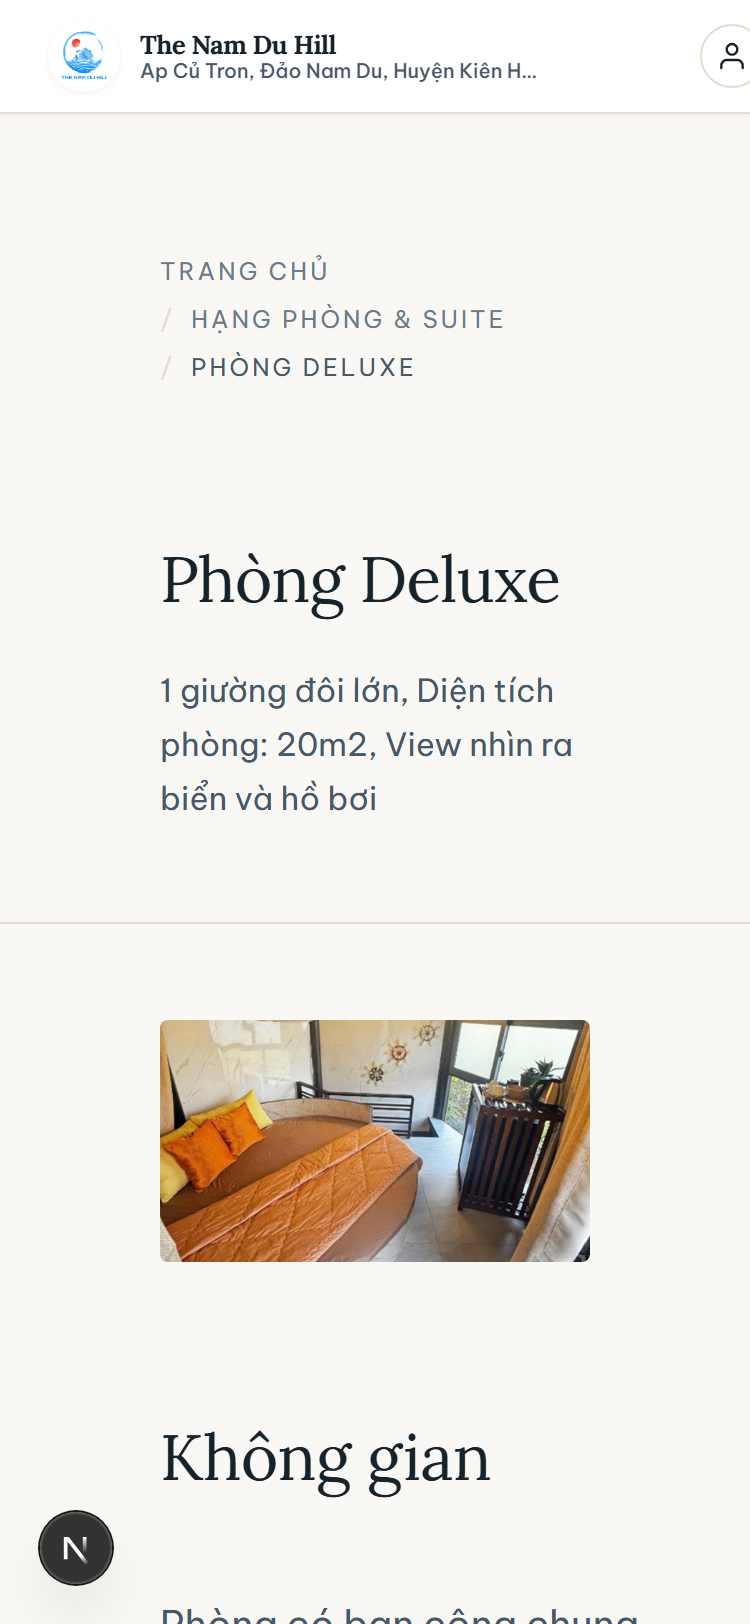
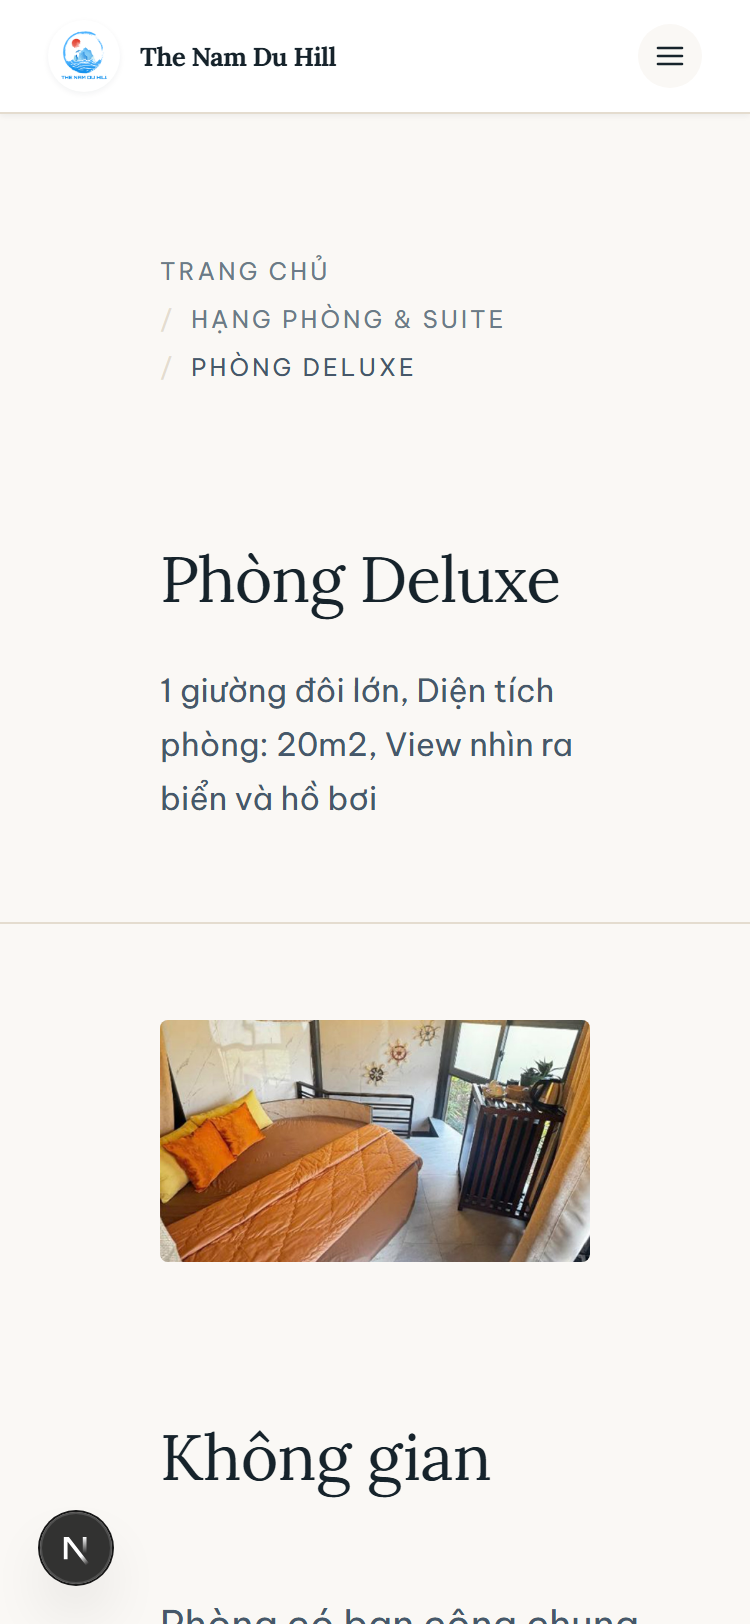
fix(theme-h4): dùng chung ảnh tầng domain, gỡ vá locales, sửa thanh đặt phòng
Chỉnh h4 cho khớp hạ tầng mới sau khi rebase lên theme/namdu.

ẢNH HERO DÙNG CHUNG (yêu cầu "tái sử dụng data cùng format h1/h2")

`images.ts` tự khai đường dẫn `property/` là đang fork lại đúng thứ mà commit
95e629f vừa gom về `domain-hotel/media.ts`. Đổi sang đọc `HERO_SLIDES` của tầng
domain — một nguồn sự thật, đổi ảnh một chỗ là cả bốn mẫu đổi theo, và cờ
`NEXT_PUBLIC_ALLOW_CRAWLED_MEDIA` của app vẫn kiểm soát được (luật R8).
Mẫu 04 lấy 3 slide đầu: hero gần trọn màn hình và không tự chạy nên ảnh thứ tư
là thừa.

GỠ `locales={[]}`

617956e đã bỏ hẳn `locales` khỏi `siteHeaderPropsOf`, nên bản vá hai chỗ trong
theme thành thừa — giữ lại là ghi đè cơ chế mới và có thể mất luôn nút đổi ngôn
ngữ. Đo lại: đúng một bộ VI|EN trên mọi trang.

THANH ĐẶT PHÒNG

Header sửa xong trả lại chỗ, làm lộ một lỗi khác: hai ô ngày đè chữ lên nhau.
Nguyên nhân là `min-w-[135px]` đặt trên `<input>` — ô nhập phình quá `<label>`
cha đang bị bóp. `<input type=date>` không xuống dòng và không co chữ, hụt chỗ
là cắt cụt thành "08/13/2(" mà không báo gì.

Ràng buộc bề rộng dồn về đúng chỗ flex tính được:
- `<input>`: `w-full min-w-0`, co theo cha
- `<label>`: `basis-[190px]`
- cụm cha: `xl:min-w-[570px]` (chỉ từ 1280px — ép ở 1024 là đẩy nút tràn)
- nhãn "Đặt phòng cùng lễ tân" lên `2xl`, nút rút gọn "Tìm phòng" ở dải `lg`

Đo bốn bề rộng: ô ngày 141–211px, không cụt, nút không tràn ở đâu.

Kiểm chứng: lint + typecheck 17/17, build xanh, ba trang /h4 đều 200,
không tràn ngang ở 1440px lẫn 375px.

diff --git a/packages/theme-h4/src/sections/Hero.tsx b/packages/theme-h4/src/sections/Hero.tsx
@@ -70,11 +70,11 @@ function ConciergeField({
     children: React.ReactNode
 }) {
     return (
-        // `basis-[150px]`: đủ rộng để "08/12/2026" và nhãn "NGÀY ĐẾN" hiện
-        // trọn, nhưng vẫn co giãn được. Để `basis-0` thì ba ô bị bóp tới mức
-        // ngày cụt thành "08,"; để `flex-1` trần thì ô ngày (nội dung dài) ăn
-        // hết chỗ và đẩy nút CTA đè lên ô "Số khách".
-        <label className="flex min-h-[44px] min-w-0 flex-1 basis-[150px] flex-col justify-center gap-1 px-5 py-3">
+        // `basis-[190px]` + `px-4`: `<input type=date>` render "08/13/2026" kèm
+        // icon lịch của trình duyệt và KHÔNG tự xuống dòng — hụt chỗ là nó cắt
+        // cụt thành "08/13/" chứ không co chữ. 190px là mức đo được vừa đủ ở
+        // cả Chrome lẫn Firefox. `flex-1` cho giãn thêm khi còn chỗ.
+        <label className="flex min-h-[44px] min-w-0 flex-1 basis-[190px] flex-col justify-center gap-1 px-4 py-3">
             <span className="truncate text-xs tracking-[0.16em] text-[rgb(250_248_245/0.72)] uppercase">
                 {label}
             </span>
@@ -89,8 +89,14 @@ function ConciergeField({
  * `[color-scheme:dark]` để lịch bật ra của trình duyệt cũng ở tông tối, không
  * loè một mảng trắng giữa hero.
  */
+/**
+ * `w-full min-w-0`: ô nhập phải co theo `<label>` cha, KHÔNG được tự giữ bề
+ * rộng riêng. Đặt `min-width` ở đây thì input phình quá khung cha và hai ô
+ * ngày đè chữ lên nhau. Ràng buộc bề rộng tối thiểu nằm ở `<label>` (`basis`),
+ * là chỗ duy nhất flex tính được.
+ */
 const conciergeInputClass =
-    'w-full min-w-[135px] border-none bg-transparent p-0 text-base font-medium text-text-inverse outline-none [color-scheme:dark] focus-visible:outline focus-visible:outline-2 focus-visible:outline-offset-4 focus-visible:outline-[var(--accent)]'
+    'w-full min-w-0 border-none bg-transparent p-0 text-base font-medium text-text-inverse outline-none [color-scheme:dark] focus-visible:outline focus-visible:outline-2 focus-visible:outline-offset-4 focus-visible:outline-[var(--accent)]'
 
 export function Hero({ locale, slides, onSearch, searchHref = '#rooms' }: HeroProps) {
     const [current, setCurrent] = useState(0)
@@ -205,20 +211,29 @@ export function Hero({ locale, slides, onSearch, searchHref = '#rooms' }: HeroPr
                             onSubmit={handleSubmit}
                             className="flex flex-col items-stretch gap-2 py-3 lg:flex-row lg:items-center lg:gap-0 lg:py-0"
                         >
-                            {/* Nhãn chỉ hiện từ xl: ở 1024–1279px nó ăn mất chỗ
-                                của ba ô nhập và đẩy nút CTA đè lên ô "Số khách". */}
-                            <p className="m-0 hidden shrink-0 pr-8 text-xs tracking-[0.2em] text-[rgb(250_248_245/0.72)] uppercase xl:block">
+                            {/* Nhãn là thứ ÍT quan trọng nhất trên thanh này, nên
+                                nó là thứ đầu tiên bị cắt khi hết chỗ. Chỉ hiện
+                                từ 2xl (1536px): dưới mức đó, ba ô nhập + nút CTA
+                                đã ăn hết bề ngang container, và nhãn chen vào là
+                                đẩy nút tràn khỏi mép phải. */}
+                            <p className="m-0 hidden shrink-0 pr-6 text-xs tracking-[0.2em] text-[rgb(250_248_245/0.72)] uppercase 2xl:block">
                                 {pick(H4.concierge, locale)}
                             </p>
 
-                            {/* `min-w-0`: không có nó, các ô `flex-1` giữ nguyên
-                                chiều rộng nội dung tối thiểu và đẩy nút CTA
-                                tràn khỏi mép phải viewport — nút chỉ còn hiện
-                                chữ "KIỂM". Đây là lỗi thấy rõ ở ảnh audit 1440px.
+                            {/* `lg:basis-[520px]`: cụm ba ô phải giữ được chỗ
+                                cho 3×168px, nếu không nhãn concierge và nút CTA
+                                nén nó xuống ~97px/ô và hai ô ngày đè chữ lên
+                                nhau (`<input type=date>` không xuống dòng, nó
+                                tràn ra ngoài khung).
 
                                 Divider dọc chỉ hiện từ lg — mobile xếp dọc, mỗi
                                 ô một dòng, không nhồi ngang (P9). */}
-                            <div className="flex min-w-0 flex-1 flex-col divide-y divide-solid divide-[rgb(250_248_245/0.16)] lg:flex-row lg:divide-x lg:divide-y-0">
+                            {/* `min-w` chỉ từ xl (1280px) trở lên. Ở 1024–1279px
+                                container chưa đủ rộng để vừa 3×190px vừa nút
+                                CTA — ép min-width ở đó là đẩy nút tràn khỏi
+                                viewport. Dưới xl để flex tự chia, ô hẹp hơn
+                                một chút nhưng ngày vẫn hiện đủ. */}
+                            <div className="flex min-w-0 flex-1 flex-col divide-y divide-solid divide-[rgb(250_248_245/0.16)] lg:flex-row lg:divide-x lg:divide-y-0 xl:min-w-[570px]">
                                 <ConciergeField label={pick(H4.arrival, locale)}>
                                     <input
                                         type="date"
@@ -252,12 +267,24 @@ export function Hero({ locale, slides, onSearch, searchHref = '#rooms' }: HeroPr
                                 </ConciergeField>
                             </div>
 
-                            <div className="shrink-0 py-3 lg:py-4 lg:pl-8">
+                            {/* `lg:pl-4 xl:pl-8`: ở 1024–1279px mọi khoảng đệm
+                                đều phải nhường chỗ cho ba ô ngày. Nhãn nút cũng
+                                rút gọn ở mức đó — "Kiểm tra phòng trống" dài 20
+                                ký tự, đủ để đẩy ngày cụt thành "08/13/2(". */}
+                            <div className="shrink-0 py-3 lg:py-4 lg:pl-4 xl:pl-8">
                                 <button
                                     type="submit"
-                                    className={`${primaryButtonClass} w-full lg:w-auto`}
+                                    className={`${primaryButtonClass} w-full lg:w-auto lg:px-4 xl:px-6`}
                                 >
-                                    {pick(UI.checkAvailability, locale)}
+                                    <span className="lg:hidden xl:inline">
+                                        {pick(UI.checkAvailability, locale)}
+                                    </span>
+                                    {/* Nhãn ngắn CHỈ ở dải 1024–1279px. Vẫn là
+                                        động từ rõ nghĩa, không phải "Xem" mơ hồ
+                                        (luật D5). */}
+                                    <span className="hidden lg:inline xl:hidden">
+                                        {pick(H4.checkShort, locale)}
+                                    </span>
                                 </button>
                             </div>
                         </form>

diff --git a/packages/theme-h4/src/images.ts b/packages/theme-h4/src/images.ts
@@ -1,4 +1,5 @@
 import { propertyPath, t, type I18nText } from '@repo/core'
+import { HERO_SLIDES } from '@repo/domain-hotel'
 
 /**
  * ẢNH MẶC ĐỊNH CỦA MẪU 04 — kết quả tuyển chọn theo P6.
@@ -21,13 +22,11 @@ import { propertyPath, t, type I18nText } from '@repo/core'
  * sẵn. P6 cấm để sự pha trộn đó lộ ra trong cùng một dải.
  *
  * CHỌN:
- *   hero-hai-dang  → HERO chính. Khung rộng nhất, có chiều sâu (mũi đá →
- *                    biển → đường bờ), độ nét cao nhất trong kho. Là ảnh duy
- *                    nhất đủ "editorial" để đứng ở 100svh.
- *   hero-1 /
- *   hero-drone     → slide 2 và 3. Cùng cảnh vịnh Cây Mến, cùng tông xanh
- *                    ngọc và nắng trưa → ba slide đọc như một bộ, không nhảy
- *                    tông (yêu cầu "Tone" của P6).
+ *   HERO           → lấy 3 slide đầu của `HERO_SLIDES` (tầng domain). Slide 1
+ *                    (`hai-dang-Ke-Ga-2`) là khung rộng nhất và nét nhất trong
+ *                    kho — ảnh duy nhất đủ "editorial" để đứng ở gần 100svh.
+ *                    Ba slide cùng tông xanh ngọc + nắng trưa nên đọc như một
+ *                    bộ, không nhảy tông (yêu cầu "Tone" của P6).
  *   place-cay-men  → dải 21:9 của section ẩm thực. Nước trong, thuyền gỗ —
  *                    bán "trải nghiệm", không bán "phòng" (P6 §Hero).
  *   about-resort   → cột ảnh section `about`. Đây LÀ ảnh ghép có logo in
@@ -46,30 +45,19 @@ export interface ThemeImage {
     alt: I18nText
 }
 
-/** Ảnh hero, theo thứ tự trình chiếu. */
-export const heroSlides: readonly ThemeImage[] = [
-    {
-        src: propertyPath('hero-hai-dang.jpg'),
-        alt: t(
-            'Mũi đá và ngọn hải đăng vươn ra vịnh biển xanh ngọc nhìn từ trên cao',
-            'A rocky headland and lighthouse reaching into a turquoise bay, seen from above',
-        ),
-    },
-    {
-        src: propertyPath('hero-1.jpg'),
-        alt: t(
-            'Vịnh Bãi Cây Mến với thuyền cá neo trên mặt nước xanh ngọc, đồi dừa phía sau',
-            'Cay Men bay with fishing boats moored on jade water, a palm-covered hill behind',
-        ),
-    },
-    {
-        src: propertyPath('hero-drone.jpg'),
-        alt: t(
-            'Toàn cảnh vịnh Củ Tron nhìn từ triền đồi vào buổi trưa',
-            'Cu Tron bay seen from the hillside at midday',
-        ),
-    },
-]
+/**
+ * Ảnh hero — DÙNG CHUNG bộ của tầng domain (`domain-hotel/media.ts`).
+ *
+ * VÌ SAO KHÔNG TỰ KHAI RIÊNG NỮA: `HERO_SLIDES` ở `domain-hotel` là một nguồn
+ * sự thật cho mọi mẫu (luật R8) — đổi ảnh hero một chỗ là cả h1/h2/h3/h4 đổi
+ * theo, và cờ `NEXT_PUBLIC_ALLOW_CRAWLED_MEDIA` của app vẫn kiểm soát được.
+ * Bản trước của mẫu này tự trỏ vào `property/` là đang fork lại đúng thứ mà
+ * commit "ảnh dùng chung ở tầng domain" vừa gom về một mối.
+ *
+ * Mẫu 04 CHỈ lấy 3 slide đầu: hero ở đây cao gần trọn màn hình và không tự
+ * chạy, nên bốn ảnh là thừa — người dùng hiếm khi bấm quá slide thứ ba.
+ */
+export const heroSlides: readonly ThemeImage[] = HERO_SLIDES.slice(0, 3)
 
 /** Ảnh cột phải của section `about`. */
 export const settingImage: ThemeImage = {

diff --git a/packages/theme-h4/src/pages/PageShell.tsx b/packages/theme-h4/src/pages/PageShell.tsx
@@ -42,13 +42,7 @@ export function PageShell({
             data-theme="h4"
             className="font-primary overflow-x-clip bg-surface-base text-text-primary"
         >
-            {/* `locales={[]}` — cùng lý do như ở `composition.tsx`: tránh hai
-                bộ chuyển ngôn ngữ cạnh nhau khi app cắm `AccountBar`. */}
-            <SiteHeader
-                {...siteHeaderPropsOf(data, locale, meta.slug)}
-                locales={[]}
-                extra={extra}
-            />
+            <SiteHeader {...siteHeaderPropsOf(data, locale, meta.slug)} extra={extra} />
             <main>{children}</main>
             <SiteFooter {...siteFooterPropsOf(data, locale, meta.slug)} />
         </div>

diff --git a/packages/theme-h4/src/composition.tsx b/packages/theme-h4/src/composition.tsx
@@ -104,13 +104,8 @@ export function Home({
 
     return (
         <div data-theme="h4" className="font-primary overflow-x-clip bg-surface-base">
-            {/* `locales={[]}`: app hub cắm `AccountBar` vào `extra`, mà bar đó
-                ĐÃ có bộ chuyển ngôn ngữ riêng. Để `siteHeaderPropsOf` bơm
-                thêm `locales` nữa là header hiện "VI | EN VI | EN" — thấy rõ
-                trên ảnh audit. Tắt bộ của header, giữ bộ của app. */}
             <SiteHeader
                 {...siteHeaderPropsOf(data, locale, slug)}
-                locales={[]}
                 extra={extra}
                 transparentOnTop
             />

diff --git a/packages/theme-h4/src/strings.ts b/packages/theme-h4/src/strings.ts
@@ -25,6 +25,8 @@ export const H4 = {
         'A hillside opening straight onto Cu Tron bay, where the day begins with the sound of surf and closes on the sunset behind Hon Hang Be.',
     ),
     scrollHint: t('Cuộn để khám phá', 'Scroll to explore'),
+    /** Nhãn nút tìm phòng, bản ngắn cho dải 1024–1279px. */
+    checkShort: t('Tìm phòng', 'Find rooms'),
 
     // ------------------------------------------------- thanh đặt phòng concierge
     concierge: t('Đặt phòng cùng lễ tân', 'Reserve with our concierge'),

diff --git a/docs/audit/h4/README.md b/docs/audit/h4/README.md
@@ -9,22 +9,38 @@ Ngày: 2026-08-05 · Chụp bằng Playwright/Chromium, DPR 2, dev server cổng
 | `final-home.png` / `final-home-m.png` | HOME 1440px / 375px |
 | `final-rooms.png` / `final-rooms-m.png` | DANH SÁCH PHÒNG 1440px / 375px |
 | `final-detail.png` / `final-detail-m.png` | CHI TIẾT PHÒNG 1440px / 375px |
-| `_baseline-h3-header.png` | **Bằng chứng**: header vỡ y hệt ở mẫu h3 → lỗi có sẵn ở `@repo/ui-layout`, không phải do h4 |
+| `_baseline-h3-header.png` | **Bằng chứng lịch sử**: header từng vỡ y hệt ở mẫu h3 → lỗi có sẵn ở `@repo/ui-layout`, không phải do h4. Đã được `617956e` trên `theme/namdu` sửa dứt điểm |
 | `_metrics.json` | Số đo tương phản + hình học từ vòng audit đầu |
 
 ## Số đo sau khi sửa
 
 | Trang | Chiều cao header | Tràn ngang | Chiều cao trang |
 |---|---|---|---|
-| Home 1440 | 70px | 0 | 6.237px |
-| Home 375 | 68px | 0 | 8.485px |
-| Rooms 1440 | 59px | 0 | 6.111px |
+| Home 1440 | 68px | 0 | 6.237px |
+| Home 375 | 68px | 0 | 8.605px |
+| Rooms 1440 | 57px | 0 | 6.111px |
 | Rooms 375 | 57px | 0 | 10.301px |
-| Detail 1440 | 59px | 0 | 3.939px |
+| Detail 1440 | 57px | 0 | 3.939px |
 | Detail 375 | 57px | 0 | 5.870px |
 
 Trước khi sửa: header **214px**, Rooms **16.522px** (desktop) / **28.617px** (mobile),
-**hai** bộ chuyển ngôn ngữ.
+**hai** bộ chuyển ngôn ngữ. Đo lại sau khi rebase lên `theme/namdu`: đúng **một**
+bộ chuyển ngôn ngữ trên mọi trang, không tràn ngang ở bất kỳ kích thước nào.
+
+### Thanh đặt phòng — đo riêng, vì đây là chỗ vỡ dai nhất
+
+`<input type="date">` không tự xuống dòng và không co chữ: hụt chỗ là nó cắt cụt
+("08/13/2(") chứ không báo gì. Đã đo ở bốn bề rộng, không cụt và không tràn:
+
+| Bề rộng | Bề rộng ô ngày | Nút CTA tràn? |
+|---|---|---|
+| 1600 | 141px | không |
+| 1440 | 164px | không |
+| 1280 | 164px | không |
+| 1024 | 211px | không |
+
+Ở dải 1024–1279px, nhãn "ĐẶT PHÒNG CÙNG LỄ TÂN" ẩn đi và nút rút gọn còn
+"Tìm phòng" — nhường chỗ cho ba ô ngày.
 
 ## Tương phản đo được (P15 / D4)
 
@@ -44,10 +60,10 @@ Trước khi sửa: header **214px**, Rooms **16.522px** (desktop) / **28.617px*
 
 | # | Lỗi | Chỗ sửa |
 |---|---|---|
-| 1 | Header cao 214px, tên thương hiệu rớt mỗi chữ một dòng, nhãn nav vỡ hai dòng | `ui-layout/SiteHeader.tsx` — thêm `shrink-0` + `whitespace-nowrap`, `truncate` cho tagline |
-| 2 | Hiện **hai** bộ chuyển ngôn ngữ (`VI|EN VI|EN`) | h4 truyền `locales={[]}`; app đã cấp bộ riêng qua `AccountBar` |
+| 1 | Header cao 214px, tên thương hiệu rớt mỗi chữ một dòng, nhãn nav vỡ hai dòng | **Không sửa ở nhánh này** — `617956e` trên `theme/namdu` đã sửa, và sửa kỹ hơn (đổi tagline sang `brand.suffix` thay vì truncate địa chỉ 49 ký tự). Commit trùng của tôi đã bị drop khi rebase |
+| 2 | Hiện **hai** bộ chuyển ngôn ngữ (`VI|EN VI|EN`) | Cũng do `617956e` xử lý ở tầng adapter (bỏ hẳn `locales` khỏi `siteHeaderPropsOf`). Bản vá `locales={[]}` của h4 đã được gỡ vì thành thừa |
 | 3 | Nút CTA hero bị cắt ngoài mép phải ở 1440px | `Hero.tsx` — `min-w-0` cho cụm ô nhập |
-| 4 | CTA đè lên ô "Số khách" ở 1024–1279px | nhãn concierge chỉ hiện từ `xl`; ô nhập `min-w-[135px]` |
+| 4 | Hai ô ngày đè chữ lên nhau; ngày cụt "08/13/2(" | ô nhập bỏ `min-width` (phải co theo cha), ràng buộc dồn về `<label>` `basis-[190px]` + cụm cha `xl:min-w-[570px]`; nhãn concierge lên `2xl`, nút rút gọn ở dải `lg` |
 | 5 | Câu dẫn ghi "Sáu hạng phòng" trong khi dữ liệu có 20 | bỏ số cứng khỏi câu dẫn; số thật hiện ở bộ đếm |
 | 6 | Rooms đổ hết 20 dòng → trang dài 16.522px | phân trang 6 dòng/lần + dòng "Đang xem x–y trong z" |
 | 7 | Bộ đếm kết quả bị đẩy xa bộ lọc bằng `ml-auto` | bỏ `ml-auto`, đặt cạnh bộ lọc |
